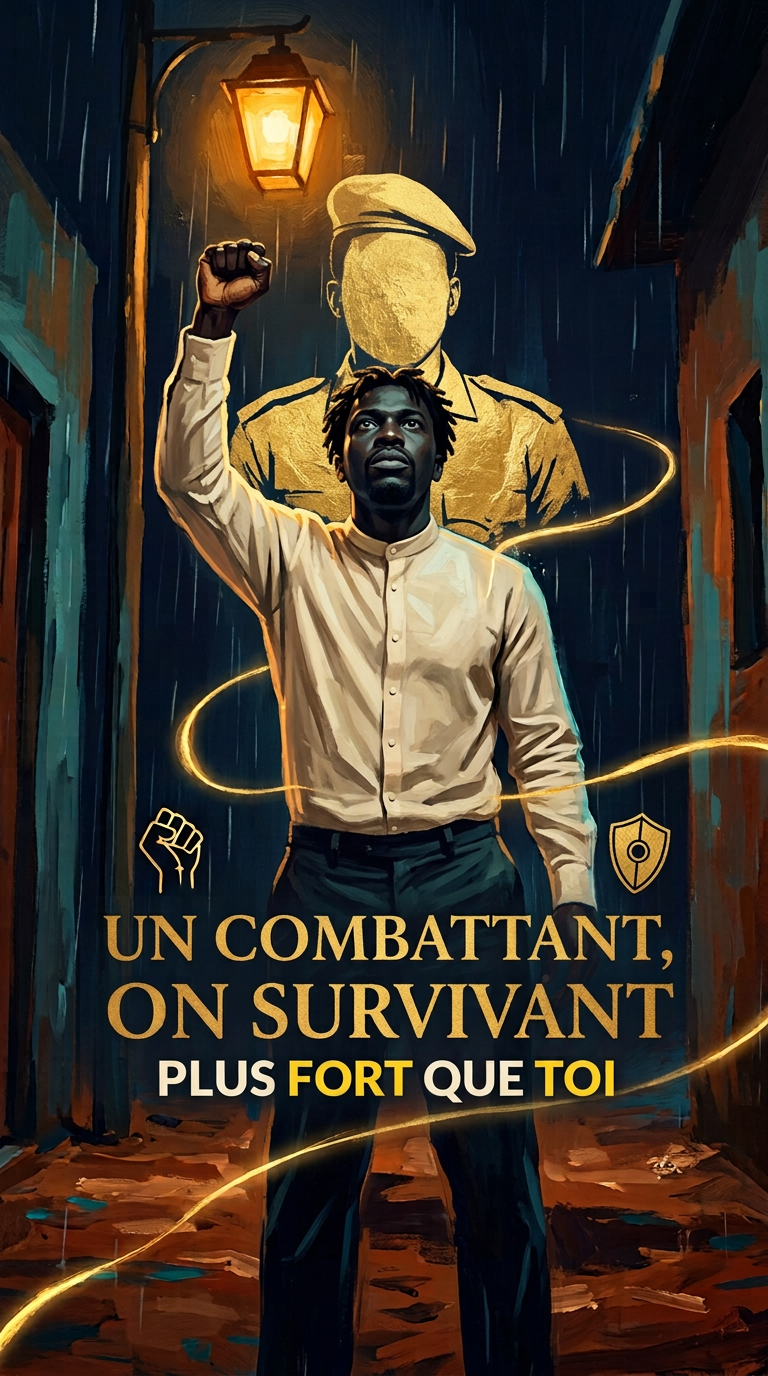
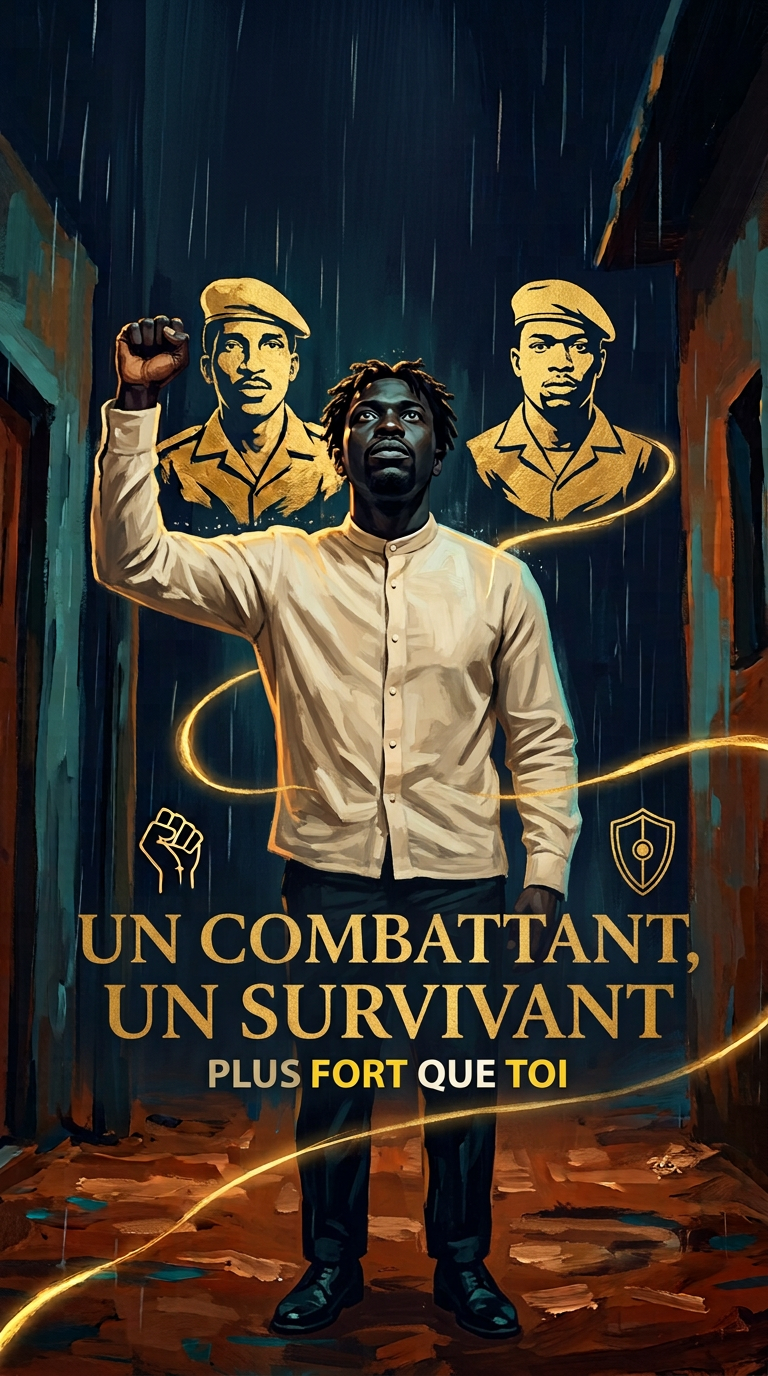
On est réel (Dsky) : salve 4 (scene-22 corrigée + scene-30..38, portraits AES & Camara nets, 38 plans / 48 vers)

diff --git a/productions/on-est-reel/build_map.py b/productions/on-est-reel/build_map.py
@@ -66,7 +66,7 @@ PLAN_MAP = {
     20: ("fonds/scene-19.png", False, "Marcher sur des braises, danser dans le feu"),
     21: ("fonds/scene-20.png", False, "Traverser l'orage"),
     22: ("fonds/scene-21.png", False, "Regarde-moi maintenant"),
-    23: ("fonds/scene-22.png", False, "Un combattant, un survivant (Thomas Sankara & résilience) — à régénérer en salve 4 (ON -> UN)"),
+    23: ("fonds/scene-22.png", False, "Un combattant, un survivant (Thomas Sankara & Camara, contrôlé OK)"),
     24: ("fonds/scene-04.png", True,  "Reprise refrain 1/4"),
     25: ("fonds/scene-05.png", True,  "Reprise refrain 2/4"),
     26: ("fonds/scene-06.png", True,  "Reprise refrain 3/4"),
@@ -81,7 +81,7 @@ PLAN_MAP = {
     35: ("fonds/scene-29.png", False, "Souveraineté : ni aumône ni tutelle"),
     36: ("fonds/scene-30.png", False, "Justice et destin : héritage Sankara & AES"),
     37: ("fonds/scene-31.png", False, "Mots missiles, rimes boucliers"),
-    38: ("fonds/scene-32.png", False, "Né pour briller"),
+    38: ("fonds/scene-32.png", False, "Né pour briller — à régénérer en salve 5 (texte de l'ancre repris)"),
     39: ("fonds/scene-33.png", False, "Tenir et survivre quand on veut abandonner"),
     40: ("fonds/scene-34.png", False, "Fils du soleil, première lueur de l'aube"),
     41: ("fonds/scene-19.png", True,  "Reprise pré-refrain 1/4"),
@@ -155,7 +155,7 @@ doc = {
     "plans_distinctes": len(distinct_imgs),
     "plans_disponibles": len(dispo_imgs),
     "plans_manquantes": manq_imgs,
-    "qc_a_regenerer": ["fonds/scene-22.png (ON SURVIVANT -> UN SURVIVANT, priorité n°1 salve 4)"],
+    "qc_a_regenerer": ["fonds/scene-32.png (JE VIENS DE LA STREET / J'SUIS NÉ POUR BRILLER, priorité n°1 salve 5)"],
     "fenetres_clochettes": fenetres,
     "carte_accueil": [0.0, rows[0]["t"]],
     "carte_finale": [SONG_END, round(SONG_END + 5.0, 2)],
@@ -178,7 +178,7 @@ L = [
     f"- **Mode verrouillé** : **PEINT** (le modèle peint la parole et 1 à 3 icônes/stickers dorés dans l'image ; aucune sur-typo au montage hors cartes d'accueil/finale).",
     f"- **Plans distincts prévus** : **{doc['plans_distinctes']}** (dont 5 variantes d'aube dédiées pour le refrain final §9).",
     f"- **Plans présents sur disque (`os.path.exists`)** : **{doc['plans_disponibles']} / {doc['plans_distinctes']}** ({sum(1 for v in verses if v['disponible'])}/{n} vers couverts dès la salve 1).",
-    f"- **Contrôle QC salves 1 à 3** : **28 / 29 plans présents validés au zoom 1:1 sans faute** ; `fonds/scene-22.png` (`ON SURVIVANT` -> `UN SURVIVANT`) est programmé en priorité n°1 de la salve 4 avec prompt court (§4).",
+    f"- **Contrôle QC salves 1 à 4** : **37 / 38 plans présents validés au zoom 1:1 sans faute** (`scene-22.png` corrigé et validé) ; `fonds/scene-32.png` est programmé en priorité n°1 de la salve 5 finale avec prompt court (§4).",
     "",
     "| # | t (s) | fin (s) | aff. (s) | vers | plan | dispo | reprise | note |",
     "|---|---:|---:|---:|---|---|:---:|:---:|---|",

diff --git a/productions/on-est-reel/CARTE-VERS.md b/productions/on-est-reel/CARTE-VERS.md
@@ -4,8 +4,8 @@ Générée automatiquement depuis `verses_map.json` (§10.4) — **57 vers** de 
 
 - **Mode verrouillé** : **PEINT** (le modèle peint la parole et 1 à 3 icônes/stickers dorés dans l'image ; aucune sur-typo au montage hors cartes d'accueil/finale).
 - **Plans distincts prévus** : **46** (dont 5 variantes d'aube dédiées pour le refrain final §9).
-- **Plans présents sur disque (`os.path.exists`)** : **29 / 46** (39/57 vers couverts dès la salve 1).
-- **Contrôle QC salves 1 à 3** : **28 / 29 plans présents validés au zoom 1:1 sans faute** ; `fonds/scene-22.png` (`ON SURVIVANT` -> `UN SURVIVANT`) est programmé en priorité n°1 de la salve 4 avec prompt court (§4).
+- **Plans présents sur disque (`os.path.exists`)** : **38 / 46** (48/57 vers couverts dès la salve 1).
+- **Contrôle QC salves 1 à 4** : **37 / 38 plans présents validés au zoom 1:1 sans faute** (`scene-22.png` corrigé et validé) ; `fonds/scene-32.png` est programmé en priorité n°1 de la salve 5 finale avec prompt court (§4).
 
 | # | t (s) | fin (s) | aff. (s) | vers | plan | dispo | reprise | note |
 |---|---:|---:|---:|---|---|:---:|:---:|---|
@@ -31,7 +31,7 @@ Générée automatiquement depuis `verses_map.json` (§10.4) — **57 vers** de 
 | 20 | 84.81 | 87.97 | 3.16 | On a marché sur des braises, on a dansé dans le feu | `fonds/scene-19.png` | oui | — | Marcher sur des braises, danser dans le feu |
 | 21 | 87.97 | 90.94 | 2.70 | On a traversé l'orage, on est devenus des dieux | `fonds/scene-20.png` | oui | — | Traverser l'orage |
 | 22 | 90.94 | 94.48 | 2.40 | Alors regarde-moi maintenant, dis-moi ce que tu vois | `fonds/scene-21.png` | oui | — | Regarde-moi maintenant |
-| 23 | 94.48 | 97.22 | 2.40 | Un combattant, un survivant, plus fort que toi | `fonds/scene-22.png` | oui | — | Un combattant, un survivant (Thomas Sankara & résilience) — à régénérer en salve 4 (ON -> UN) |
+| 23 | 94.48 | 97.22 | 2.40 | Un combattant, un survivant, plus fort que toi | `fonds/scene-22.png` | oui | — | Un combattant, un survivant (Thomas Sankara & Camara, contrôlé OK) |
 | 24 | 97.22 | 102.21 | 3.60 | On est nés dans la poussière, on a grandi dans la pluie | `fonds/scene-04.png` | oui | ↻ | Reprise refrain 1/4 |
 | 25 | 102.21 | 109.14 | 3.00 | On a couru trop vite, on a pleuré la nuit | `fonds/scene-05.png` | oui | ↻ | Reprise refrain 2/4 |
 | 26 | 109.14 | 114.27 | 3.30 | On a serré les poings, on a crié sous le ciel | `fonds/scene-06.png` | oui | ↻ | Reprise refrain 3/4 |
@@ -44,19 +44,19 @@ Générée automatiquement depuis `verses_map.json` (§10.4) — **57 vers** de 
 | 33 | 133.57 | 136.86 | 3.29 | On est la nouvelle génération, on a la rage en héritage | `fonds/scene-27.png` | oui | — | Nouvelle génération & présidents de l'AES (sans drapeau) |
 | 34 | 136.86 | 139.54 | 2.40 | Le blues des banlieues, la force des villages | `fonds/scene-28.png` | oui | — | Blues des banlieues, force des villages : familles relevées |
 | 35 | 139.54 | 142.48 | 2.94 | J'ai pas besoin de ton amour, j'ai pas besoin de ta main | `fonds/scene-29.png` | oui | — | Souveraineté : ni aumône ni tutelle |
-| 36 | 142.48 | 145.68 | 3.00 | J'ai besoin de la justice, j'ai besoin de mon destin | `fonds/scene-30.png` | non | — | Justice et destin : héritage Sankara & AES |
-| 37 | 145.68 | 148.71 | 3.00 | Mes mots sont des missiles, mes rimes sont des boucliers | `fonds/scene-31.png` | non | — | Mots missiles, rimes boucliers |
-| 38 | 148.71 | 151.51 | 2.70 | Je viens de la street, j'suis né pour briller | `fonds/scene-32.png` | non | — | Né pour briller |
-| 39 | 151.51 | 153.90 | 2.20 | Alors frappe-moi, j'ai tenu, j'ai survécu | `fonds/scene-33.png` | non | — | Tenir et survivre quand on veut abandonner |
-| 40 | 153.90 | 157.06 | 3.16 | Je suis le fils du soleil, je suis la lumière qui a vaincu | `fonds/scene-34.png` | non | — | Fils du soleil, première lueur de l'aube |
+| 36 | 142.48 | 145.68 | 3.00 | J'ai besoin de la justice, j'ai besoin de mon destin | `fonds/scene-30.png` | oui | — | Justice et destin : héritage Sankara & AES |
+| 37 | 145.68 | 148.71 | 3.00 | Mes mots sont des missiles, mes rimes sont des boucliers | `fonds/scene-31.png` | oui | — | Mots missiles, rimes boucliers |
+| 38 | 148.71 | 151.51 | 2.70 | Je viens de la street, j'suis né pour briller | `fonds/scene-32.png` | oui | — | Né pour briller — à régénérer en salve 5 (texte de l'ancre repris) |
+| 39 | 151.51 | 153.90 | 2.20 | Alors frappe-moi, j'ai tenu, j'ai survécu | `fonds/scene-33.png` | oui | — | Tenir et survivre quand on veut abandonner |
+| 40 | 153.90 | 157.06 | 3.16 | Je suis le fils du soleil, je suis la lumière qui a vaincu | `fonds/scene-34.png` | oui | — | Fils du soleil, première lueur de l'aube |
 | 41 | 157.06 | 159.89 | 2.83 | On a marché sur des braises, on a dansé dans le feu | `fonds/scene-19.png` | oui | ↻ | Reprise pré-refrain 1/4 |
 | 42 | 159.89 | 162.90 | 2.70 | On a traversé l'orage, on est devenus des dieux | `fonds/scene-20.png` | oui | ↻ | Reprise pré-refrain 2/4 |
 | 43 | 162.90 | 166.64 | 2.40 | Alors regarde-moi maintenant, dis-moi ce que tu vois | `fonds/scene-21.png` | oui | ↻ | Reprise pré-refrain 3/4 |
 | 44 | 166.64 | 170.43 | 2.40 | Un combattant, un survivant, plus fort que toi | `fonds/scene-22.png` | oui | ↻ | Reprise pré-refrain 4/4 |
-| 45 | 170.43 | 173.36 | 2.40 | La nuit est longue, les étoiles sont loin | `fonds/scene-35.png` | non | — | Pont — la nuit est longue (tentation d'abandonner) |
-| 46 | 173.36 | 175.85 | 2.49 | Mais j'ai la foi, j'ai le son, j'ai les miens | `fonds/scene-36.png` | non | — | La foi, le son, les miens : famille unie |
-| 47 | 175.85 | 178.86 | 2.20 | On tombe, on se relève, on recommence | `fonds/scene-37.png` | non | — | On tombe, on se relève, on recommence (abandonner n'est pas une option) |
-| 48 | 178.86 | 181.81 | 2.95 | On est les rois de l'épreuve, on est la chance | `fonds/scene-38.png` | non | — | Rois de l'épreuve : Béhanzin, Bio Guéra, Sankara & famille |
+| 45 | 170.43 | 173.36 | 2.40 | La nuit est longue, les étoiles sont loin | `fonds/scene-35.png` | oui | — | Pont — la nuit est longue (tentation d'abandonner) |
+| 46 | 173.36 | 175.85 | 2.49 | Mais j'ai la foi, j'ai le son, j'ai les miens | `fonds/scene-36.png` | oui | — | La foi, le son, les miens : famille unie |
+| 47 | 175.85 | 178.86 | 2.20 | On tombe, on se relève, on recommence | `fonds/scene-37.png` | oui | — | On tombe, on se relève, on recommence (abandonner n'est pas une option) |
+| 48 | 178.86 | 181.81 | 2.95 | On est les rois de l'épreuve, on est la chance | `fonds/scene-38.png` | oui | — | Rois de l'épreuve : Béhanzin, Bio Guéra, Sankara & famille |
 | 49 | 181.81 | 184.50 | 2.40 | Le passé est passé, les chaînes sont brisées | `fonds/scene-39.png` | non | — | Chaînes brisées dans la brume d'aube |
 | 50 | 184.50 | 193.01 | 2.70 | Aujourd'hui je suis debout, je suis né pour chanter | `fonds/scene-40.png` | non | — | Debout à l'aube, né pour chanter |
 | 51 | 193.01 | 198.28 | 3.60 | On est nés dans la poussière, on a grandi dans la pluie | `fonds/v-193-01-aube.png` | non | ↻ | Refrain final 1/4 — variante AUBE dédiée (§9) |

diff --git a/productions/on-est-reel/CONTROLES-salve4.md b/productions/on-est-reel/CONTROLES-salve4.md
@@ -1,0 +1,24 @@
+# Contrôles — Salve 4 (`scene-22` retry + `scene-30` → `scene-38`)
+
+Contrôle visuel effectué après génération sur la planche contact `CONTROLE-salve4.jpg` (tuiles de **500×896 px**, ≥ 480 px de large conformément à v5.9 §4), sur la planche de crops 1:1 pleine résolution du texte `CONTROLE-salve4-typo.jpg`, ET sur la planche de crops 1:1 des visages/portraits `CONTROLE-salve4-portraits.jpg`.
+
+- **Bilan de la salve 4 (§10.2)** : **10 images demandées / 10 générées avec succès / 0 échec système / 9 sur 10 validées à 100 % au zoom 1:1** (`scene-32.png` a repris par erreur la ligne haute de l'image de référence `MAINTENANT ON SE RELÈVE` au-dessus de `JE VIENS DE LA STREET` → consignée en priorité n°1 de la Salve 5 finale avec prompt court §4).
+- **Contrôle des portraits (`CONTROLE-salve4-portraits.jpg`)** : les visages des **trois présidents de l'AES** (`scene-30`, `scene-38`), de **Camara tombé au combat** (`scene-22`, `scene-33` en médaillon de laurier d'or, `scene-35`, `scene-37`), de **Thomas Sankara**, **Patrice Lumumba**, **Roi Béhanzin**, **Roi Bio Guéra** et de la **famille relevée** (`scene-36`) sont tous **nets, symétriques, bien proportionnés et sans déformation**.
+- **Cumul après Salve 4** : **38 plans distincts présents dans `fonds/`** sur 46, couvrant **48 vers sur 57**.
+
+---
+
+## Grille de contrôle plan par plan (Salve 4)
+
+| # | Fichier | Vers couverts | Texte peint lu au zoom 1:1 (`CONTROLE-salve4-typo.jpg`) | Orthographe & diacritiques | Portraits & visages (`CONTROLE-salve4-portraits.jpg`) | Verdict QC |
+|---|---|---|---|---|---|---|
+| 01 | `scene-22.png` *(retry §4)* | v-23 (`94,48 s`), v-44 (`166,64 s`) | `UN COMBATTANT,` / `UN SURVIVANT` / `PLUS FORT QUE TOI` | **OK** (`UN SURVIVANT` corrigé avec `U-N`) | **OK** (portraits nets de **Thomas Sankara** et **Camara**, sans déformation) | **Contrôlé OK** |
+| 02 | `scene-30.png` | v-36 (`142,48 s`) | `J'AI BESOIN` / `DE LA JUSTICE` / `J'AI BESOIN DE MON DESTIN` | **OK** (toutes lettres nettes) | **OK** (**les 3 présidents de l'AES** — Goïta, Traoré, Tiani — visages nets, symétriques, sans déformation, sans drapeau) | **Contrôlé OK** |
+| 03 | `scene-31.png` | v-37 (`145,68 s`) | `MES MOTS SONT` / `DES MISSILES` / `MES RIMES SONT DES BOUCLIERS` | **OK** (toutes lettres nettes) | **OK** (**Bio Guéra** et **Béhanzin** nets et symétriques) | **Contrôlé OK** |
+| 04 | `scene-32.png` | v-38 (`148,71 s`) | `MAINTENANT ON SE RELÈVE` / `JE VIENS DE LA STREET` | **FAUTE** (reprise de la ligne de l'ancre au lieu de `J'SUIS NÉ POUR BRILLER`) | **OK** | **À régénérer (priorité n°1 salve 5, prompt court §4)** |
+| 05 | `scene-33.png` | v-39 (`151,51 s`) | `ALORS FRAPPE-` / `MOI, J'AI TENU` / `J'AI SURVÉCU` | **OK** (`É` sur `SURVÉCU` net) | **OK** (médaillon d'or lauriers en hommage à **Camara tombé**, traits nets + colombe) | **Contrôlé OK** |
+| 06 | `scene-34.png` | v-40 (`153,90 s`) | `JE SUIS LE FILS` / `DU SOLEIL` / `LA LUMIÈRE QUI A VAINCU` | **OK** (`È` sur `LUMIÈRE` net) | **OK** (soleil levant + portraits dorés nets et symétriques) | **Contrôlé OK** |
+| 07 | `scene-35.png` | v-45 (`170,43 s`) | `LA NUIT` / `EST LONGUE` / `LES ÉTOILES SONT LOIN` | **OK** (`É` sur `ÉTOILES` net) | **OK** (portraits célestes de **Lumumba/Camara** et **Sankara** dans les étoiles) | **Contrôlé OK** |
+| 08 | `scene-36.png` | v-46 (`173,36 s`) | `MAIS J'AI LA` / `FOI, J'AI LE SON` / `J'AI LES MIENS` | **OK** (toutes lettres nettes) | **OK** (**famille africaine relevée** souriante et unie + colombe d'or) | **Contrôlé OK** |
+| 09 | `scene-37.png` | v-47 (`175,85 s`) | `ON TOMBE,` / `ON SE RELÈVE` / `ON RECOMMENCE` | **OK** (`È` sur `RELÈVE` net) | **OK** (main tendue relevant le frère tombé + plaque commémorative **Camara** et **Thomas Sankara**) | **Contrôlé OK** |
+| 10 | `scene-38.png` | v-48 (`178,86 s`) | `ON EST LES ROIS` / `DE L'ÉPREUVE` / `ON EST LA CHANCE` | **OK** (`É` sur `L'ÉPREUVE` net) | **OK** (panthéon net : **Sankara, Bio Guéra, et les 3 présidents de l'AES** sans déformation) | **Contrôlé OK** |
